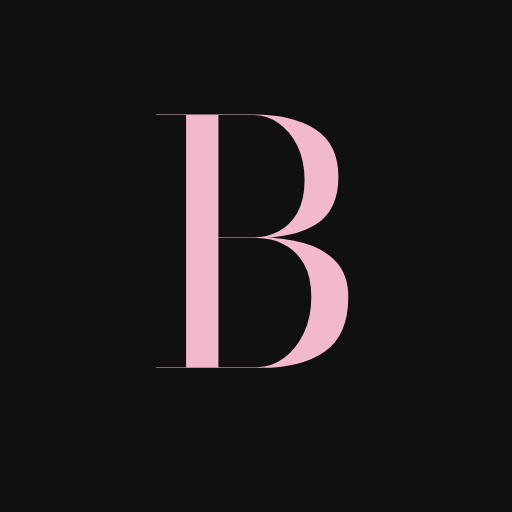
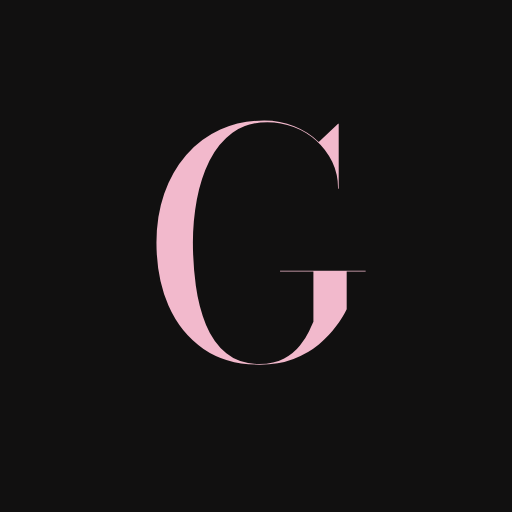
Rename the salon to Grin Lashes
Site, legal pages, emails, Stripe line item, manifest, social preview
image and icons (monogram B -> G).

Claude-Session: https://claude.ai/code/session_01NthKkiTawTwUMCYFEXdZph

Changed region(s): [[0.2812, 0.2188, 0.7188, 0.7188]]

diff --git a/public/index.html b/public/index.html
@@ -3,8 +3,8 @@
 <head>
 <meta charset="utf-8">
 <meta name="viewport" content="width=device-width, initial-scale=1">
-<title>Dovanų kuponai · Blakstės studija · Meistrė Viktorija</title>
-<meta name="description" content="Dovanų kuponai Blakstės studijai: blakstienų priauginimas ir laminavimas pas meistrę Viktoriją. Kuponas nuo 40 € su QR kodu, galioja 12 mėn.">
+<title>Dovanų kuponai · Grin Lashes · Meistrė Viktorija</title>
+<meta name="description" content="Dovanų kuponai Grin Lashes: blakstienų priauginimas ir laminavimas pas meistrę Viktoriją. Kuponas nuo 40 € su QR kodu, galioja 12 mėn.">
 <link rel="canonical" href="https://blakstes-kuponai.vercel.app/">
 <meta name="theme-color" content="#111010">
 <link rel="icon" href="/favicon.svg" type="image/svg+xml">
@@ -12,9 +12,9 @@
 <link rel="apple-touch-icon" href="/apple-touch-icon.png">
 <link rel="manifest" href="/site.webmanifest">
 <meta property="og:type" content="website">
-<meta property="og:site_name" content="Blakstės studija">
-<meta property="og:title" content="Dovanų kuponai · Blakstės studija">
-<meta property="og:description" content="Dovanų kuponai Blakstės studijai: blakstienų priauginimas ir laminavimas pas meistrę Viktoriją. Kuponas nuo 40 € su QR kodu, galioja 12 mėn.">
+<meta property="og:site_name" content="Grin Lashes">
+<meta property="og:title" content="Dovanų kuponai · Grin Lashes">
+<meta property="og:description" content="Dovanų kuponai Grin Lashes: blakstienų priauginimas ir laminavimas pas meistrę Viktoriją. Kuponas nuo 40 € su QR kodu, galioja 12 mėn.">
 <meta property="og:url" content="https://blakstes-kuponai.vercel.app/">
 <meta property="og:image" content="https://blakstes-kuponai.vercel.app/og.png">
 <meta property="og:image:width" content="1200">
@@ -22,7 +22,7 @@
 <meta property="og:locale" content="lt_LT">
 <meta property="og:locale:alternate" content="ru_RU">
 <meta name="twitter:card" content="summary_large_image">
-<script type="application/ld+json">{"@context": "https://schema.org", "@type": "BeautySalon", "name": "Blakstės studija", "url": "https://blakstes-kuponai.vercel.app/", "image": "https://blakstes-kuponai.vercel.app/og.png", "description": "Dovanų kuponai Blakstės studijai: blakstienų priauginimas ir laminavimas pas meistrę Viktoriją. Kuponas nuo 40 € su QR kodu, galioja 12 mėn.", "sameAs": ["https://www.instagram.com/grin_lashes/", "https://book.treatwell.lt/salonas/397163/meniu"], "priceRange": "10–55 €", "employee": {"@type": "Person", "name": "Viktorija", "jobTitle": "Blakstienų meistrė"}}</script>
+<script type="application/ld+json">{"@context": "https://schema.org", "@type": "BeautySalon", "name": "Grin Lashes", "url": "https://blakstes-kuponai.vercel.app/", "image": "https://blakstes-kuponai.vercel.app/og.png", "description": "Dovanų kuponai Grin Lashes: blakstienų priauginimas ir laminavimas pas meistrę Viktoriją. Kuponas nuo 40 € su QR kodu, galioja 12 mėn.", "sameAs": ["https://www.instagram.com/grin_lashes/", "https://book.treatwell.lt/salonas/397163/meniu"], "priceRange": "10–55 €", "employee": {"@type": "Person", "name": "Viktorija", "jobTitle": "Blakstienų meistrė"}}</script>
 <link rel="stylesheet" href="/fonts/fonts.css?v=1" media="print" onload="this.media='all'">
 <noscript><link rel="stylesheet" href="/fonts/fonts.css?v=1"></noscript>
 <style>
@@ -478,7 +478,7 @@ dialog::backdrop{background:rgba(10,9,9,.7);backdrop-filter:blur(4px)}
 <body>
 <header>
   <div class="wrap bar">
-    <a class="logo" href="#top" id="logoLink"><b id="brandName">Blakstės studija</b><small data-i18n="logoSub">MEISTRĖ VIKTORIJA</small></a>
+    <a class="logo" href="#top" id="logoLink"><b id="brandName">Grin Lashes</b><small data-i18n="logoSub">MEISTRĖ VIKTORIJA</small></a>
     <nav class="menu" id="shopNav">
       <a href="#choose" data-i18n="navPrices">Kainos</a>
       <a href="#check" data-i18n="navCheck">Likutis</a>
@@ -748,9 +748,9 @@ dialog::backdrop{background:rgba(10,9,9,.7);backdrop-filter:blur(4px)}
 <!-- Photos of work and client reviews. Photos go to public/works/ (JPG/WebP, about 1200 px). Empty lists hide the section.
      {"photos":[{"src":"/works/1.jpg","alt":"Klasikinis priauginimas"}],
       "reviews":[{"name":"Ieva","text":"…","stars":5,"source":"Treatwell"}]} -->
-<script id="works-data" type="application/json">{"photos":[{"src":"/works/1.jpg","alt":"Blakstienų darbas Nr. 1 – Blakstės studija"},{"src":"/works/2.jpg","alt":"Blakstienų darbas Nr. 2 – Blakstės studija"},{"src":"/works/3.jpg","alt":"Blakstienų darbas Nr. 3 – Blakstės studija"},{"src":"/works/4.jpg","alt":"Blakstienų darbas Nr. 4 – Blakstės studija"},{"src":"/works/5.jpg","alt":"Blakstienų darbas Nr. 5 – Blakstės studija"},{"src":"/works/6.jpg","alt":"Blakstienų darbas Nr. 6 – Blakstės studija"},{"src":"/works/7.jpg","alt":"Blakstienų darbas Nr. 7 – Blakstės studija"},{"src":"/works/8.jpg","alt":"Blakstienų darbas Nr. 8 – Blakstės studija"},{"src":"/works/9.jpg","alt":"Blakstienų darbas Nr. 9 – Blakstės studija"},{"src":"/works/10.jpg","alt":"Blakstienų darbas Nr. 10 – Blakstės studija"},{"src":"/works/11.jpg","alt":"Blakstienų darbas Nr. 11 – Blakstės studija"}],"reviews":[]}</script>
+<script id="works-data" type="application/json">{"photos":[{"src":"/works/1.jpg","alt":"Blakstienų darbas Nr. 1 – Grin Lashes"},{"src":"/works/2.jpg","alt":"Blakstienų darbas Nr. 2 – Grin Lashes"},{"src":"/works/3.jpg","alt":"Blakstienų darbas Nr. 3 – Grin Lashes"},{"src":"/works/4.jpg","alt":"Blakstienų darbas Nr. 4 – Grin Lashes"},{"src":"/works/5.jpg","alt":"Blakstienų darbas Nr. 5 – Grin Lashes"},{"src":"/works/6.jpg","alt":"Blakstienų darbas Nr. 6 – Grin Lashes"},{"src":"/works/7.jpg","alt":"Blakstienų darbas Nr. 7 – Grin Lashes"},{"src":"/works/8.jpg","alt":"Blakstienų darbas Nr. 8 – Grin Lashes"},{"src":"/works/9.jpg","alt":"Blakstienų darbas Nr. 9 – Grin Lashes"},{"src":"/works/10.jpg","alt":"Blakstienų darbas Nr. 10 – Grin Lashes"},{"src":"/works/11.jpg","alt":"Blakstienų darbas Nr. 11 – Grin Lashes"}],"reviews":[]}</script>
 <!-- Service list for the static preview. The server version reads data/menu.json via /api/menu. -->
-<script id="menu-data" type="application/json">{"salon": {"name": "Blakstės studija", "address": "", "bookingUrl": "https://book.treatwell.lt/salonas/397163/meniu"}, "categories": [{"name": "Blakstienų laminavimas", "services": [{"id": "s1", "name": "Blakstienų laminavimas su dažymu", "price": 30, "bookingUrl": "https://book.treatwell.lt/salonas/397163/meniu"}]}, {"name": "Nude / Classic", "services": [{"id": "s2", "name": "Korekcija (po 4 savaičių)", "price": 35, "bookingUrl": "https://book.treatwell.lt/salonas/397163/meniu"}, {"id": "s3", "name": "Pilnas priauginimas", "price": 40, "bookingUrl": "https://book.treatwell.lt/salonas/397163/meniu"}, {"id": "s4", "name": "Korekcija po kito meistro", "price": 38, "bookingUrl": "https://book.treatwell.lt/salonas/397163/meniu"}, {"id": "s5", "name": "Priauginimas + nuėmimas", "price": 45, "bookingUrl": "https://book.treatwell.lt/salonas/397163/meniu"}]}, {"name": "Wet Lashes", "services": [{"id": "s6", "name": "Korekcija", "price": 40, "bookingUrl": "https://book.treatwell.lt/salonas/397163/meniu"}, {"id": "s7", "name": "Pilnas priauginimas", "price": 45, "bookingUrl": "https://book.treatwell.lt/salonas/397163/meniu"}]}, {"name": "M / L linkis", "services": [{"id": "s8", "name": "Pilnas priauginimas", "price": 45, "bookingUrl": "https://book.treatwell.lt/salonas/397163/meniu"}, {"id": "s9", "name": "Korekcija", "price": 40, "bookingUrl": "https://book.treatwell.lt/salonas/397163/meniu"}]}, {"name": "Wispy / Kim K / Anime", "services": [{"id": "s10", "name": "Pilnas priauginimas", "price": 55, "bookingUrl": "https://book.treatwell.lt/salonas/397163/meniu"}, {"id": "s11", "name": "Korekcija", "price": 45, "bookingUrl": "https://book.treatwell.lt/salonas/397163/meniu"}]}, {"name": "Express priauginimas", "services": [{"id": "s12", "name": "Priauginimas", "price": 35, "bookingUrl": "https://book.treatwell.lt/salonas/397163/meniu"}]}, {"name": "Speedy Lashes", "services": [{"id": "s13", "name": "Pilnas priauginimas", "price": 45, "bookingUrl": "https://book.treatwell.lt/salonas/397163/meniu"}, {"id": "s14", "name": "Korekcija", "price": 40, "bookingUrl": "https://book.treatwell.lt/salonas/397163/meniu"}], "description": "Priauginimas paruoštais kuokšteliais"}, {"name": "Blakstienų nuėmimas", "services": [{"id": "s15", "name": "Nuėmimas", "price": 10, "bookingUrl": "https://book.treatwell.lt/salonas/397163/meniu"}, {"id": "s16", "name": "Nuėmimas po kito meistro", "price": 15, "bookingUrl": "https://book.treatwell.lt/salonas/397163/meniu"}]}]}</script>
+<script id="menu-data" type="application/json">{"salon": {"name": "Grin Lashes", "address": "", "bookingUrl": "https://book.treatwell.lt/salonas/397163/meniu"}, "categories": [{"name": "Blakstienų laminavimas", "services": [{"id": "s1", "name": "Blakstienų laminavimas su dažymu", "price": 30, "bookingUrl": "https://book.treatwell.lt/salonas/397163/meniu"}]}, {"name": "Nude / Classic", "services": [{"id": "s2", "name": "Korekcija (po 4 savaičių)", "price": 35, "bookingUrl": "https://book.treatwell.lt/salonas/397163/meniu"}, {"id": "s3", "name": "Pilnas priauginimas", "price": 40, "bookingUrl": "https://book.treatwell.lt/salonas/397163/meniu"}, {"id": "s4", "name": "Korekcija po kito meistro", "price": 38, "bookingUrl": "https://book.treatwell.lt/salonas/397163/meniu"}, {"id": "s5", "name": "Priauginimas + nuėmimas", "price": 45, "bookingUrl": "https://book.treatwell.lt/salonas/397163/meniu"}]}, {"name": "Wet Lashes", "services": [{"id": "s6", "name": "Korekcija", "price": 40, "bookingUrl": "https://book.treatwell.lt/salonas/397163/meniu"}, {"id": "s7", "name": "Pilnas priauginimas", "price": 45, "bookingUrl": "https://book.treatwell.lt/salonas/397163/meniu"}]}, {"name": "M / L linkis", "services": [{"id": "s8", "name": "Pilnas priauginimas", "price": 45, "bookingUrl": "https://book.treatwell.lt/salonas/397163/meniu"}, {"id": "s9", "name": "Korekcija", "price": 40, "bookingUrl": "https://book.treatwell.lt/salonas/397163/meniu"}]}, {"name": "Wispy / Kim K / Anime", "services": [{"id": "s10", "name": "Pilnas priauginimas", "price": 55, "bookingUrl": "https://book.treatwell.lt/salonas/397163/meniu"}, {"id": "s11", "name": "Korekcija", "price": 45, "bookingUrl": "https://book.treatwell.lt/salonas/397163/meniu"}]}, {"name": "Express priauginimas", "services": [{"id": "s12", "name": "Priauginimas", "price": 35, "bookingUrl": "https://book.treatwell.lt/salonas/397163/meniu"}]}, {"name": "Speedy Lashes", "services": [{"id": "s13", "name": "Pilnas priauginimas", "price": 45, "bookingUrl": "https://book.treatwell.lt/salonas/397163/meniu"}, {"id": "s14", "name": "Korekcija", "price": 40, "bookingUrl": "https://book.treatwell.lt/salonas/397163/meniu"}], "description": "Priauginimas paruoštais kuokšteliais"}, {"name": "Blakstienų nuėmimas", "services": [{"id": "s15", "name": "Nuėmimas", "price": 10, "bookingUrl": "https://book.treatwell.lt/salonas/397163/meniu"}, {"id": "s16", "name": "Nuėmimas po kito meistro", "price": 15, "bookingUrl": "https://book.treatwell.lt/salonas/397163/meniu"}]}]}</script>
 
 <!-- Live database (Supabase). The key below is the public "publishable" key; all rules live in the database functions. -->
 <script id="supa-config" type="application/json">{"url":"https://hermojruniqfvxksunrj.supabase.co","key":"sb_publishable_dUxM0CR3woUXiq0or0yGZQ_tel1mICB"}</script>
@@ -1168,7 +1168,7 @@ function qrSvg(text){
 }
 function cardHTML(o){
   const who = [o.to ? t('forWhom') + ': ' + esc(o.to) : '', esc(o.from || '')].filter(Boolean).join(' · ');
-  return `<div class="v-top"><div class="v-logo">${esc(state.menu.salon?.name || 'Blakstės studija')}<small>${t('logoSub')}</small></div></div>
+  return `<div class="v-top"><div class="v-logo">${esc(state.menu.salon?.name || 'Grin Lashes')}<small>${t('logoSub')}</small></div></div>
     <div class="v-mid"><div class="v-title">${esc(o.title)}</div><div class="v-amount">${money(o.amount)}</div></div>
     <div class="v-bot"><div style="min-width:0"><div class="v-msg">${o.message ? '“' + esc(o.message) + '”' : ''}</div>${who ? `<div class="v-who">${who}</div>` : ''}</div>
     <div class="v-qr">${o.code ? `<div class="qr">${qrSvg(o.qr || qrPayload(o.code))}</div>` : '<div class="qr ph"></div>'}<div class="v-code">${esc(o.code || 'GIFT-XXXX-XXXX')}</div></div></div>`;
@@ -1192,7 +1192,7 @@ function renderPreview(){
 }
 function renderStatic(){
   $('#heroCard').innerHTML = cardHTML({ title: t('voucher'), amount: 50, message: t('heroMsg'), code:'GIFT-DEMO-2026', qr:'GIFT-DEMO-2026' });
-  const m = state.menu, name = m.salon?.name || 'Blakstės studija';
+  const m = state.menu, name = m.salon?.name || 'Grin Lashes';
   $('#brandName').textContent = name;
   $('#footBrand').textContent = name;
   $('#footSalon').textContent = m.salon?.address || '';
@@ -1269,7 +1269,7 @@ async function voucherBlob(v){
   x.strokeStyle = D[2]; x.globalAlpha = .25; x.lineWidth = 2; x.beginPath(); x.roundRect(36, 36, W - 72, H - 72, 10); x.stroke(); x.globalAlpha = 1;
   const sp = px => { if ('letterSpacing' in x) x.letterSpacing = px; };
   x.fillStyle = D[2]; x.textBaseline = 'alphabetic';
-  sp('8px'); x.font = '400 44px "Bodoni Moda", Georgia, serif'; x.fillText(String(state.menu.salon?.name || 'Blakstės studija').toUpperCase(), 90, 140);
+  sp('8px'); x.font = '400 44px "Bodoni Moda", Georgia, serif'; x.fillText(String(state.menu.salon?.name || 'Grin Lashes').toUpperCase(), 90, 140);
   sp('7px'); x.font = '400 20px "Space Mono", monospace'; x.globalAlpha = .7; x.fillText(t('logoSub').toUpperCase(), 90, 178); x.globalAlpha = 1;
   sp('0px'); x.textAlign = 'right'; x.fillStyle = D[3]; x.font = '400 190px Anton, Impact, sans-serif'; x.fillText(money(v.amount), W - 90, 500);
   x.textAlign = 'left'; x.fillStyle = D[2]; x.font = 'italic 400 70px "Bodoni Moda", Georgia, serif';

diff --git a/public/taisykles.html b/public/taisykles.html
@@ -3,8 +3,8 @@
 <head>
 <meta charset="utf-8">
 <meta name="viewport" content="width=device-width, initial-scale=1">
-<title>Pirkimo taisyklės · Blakstės studija</title>
-<meta name="description" content="Blakstės studijos dovanų kuponų pirkimo, naudojimo ir grąžinimo taisyklės.">
+<title>Pirkimo taisyklės · Grin Lashes</title>
+<meta name="description" content="Grin Lashes dovanų kuponų pirkimo, naudojimo ir grąžinimo taisyklės.">
 <meta name="robots" content="index,follow">
 <link rel="canonical" href="https://blakstes-kuponai.vercel.app/taisykles.html">
 <meta name="theme-color" content="#111010">
@@ -33,7 +33,7 @@ footer a{color:var(--greige);margin:0 8px}
 </style>
 </head>
 <body>
-<header><div class="w"><a class="brand" href="/">Blakstės studija</a><a class="back" href="/">← Į svetainę</a></div></header>
+<header><div class="w"><a class="brand" href="/">Grin Lashes</a><a class="back" href="/">← Į svetainę</a></div></header>
 <main>
 <h1>Dovanų kuponų pirkimo taisyklės</h1>
 <p class="upd">Galioja nuo 2026-11-12</p>
@@ -47,11 +47,11 @@ footer a{color:var(--greige);margin:0 8px}
   <p>El. paštas: <span class="ph">[EL. PAŠTAS]</span> · Tel. <span class="ph">[TELEFONAS]</span></p>
 </div>
 
-<p>Paslaugas pagal kuponus teikia Blakstės studija, meistrė Viktorija. Šios taisyklės taikomos visiems Svetainėje pirktiems kuponams. Pateikdami užsakymą patvirtinate, kad susipažinote su taisyklėmis ir su jomis sutinkate.</p>
+<p>Paslaugas pagal kuponus teikia Grin Lashes, meistrė Viktorija. Šios taisyklės taikomos visiems Svetainėje pirktiems kuponams. Pateikdami užsakymą patvirtinate, kad susipažinote su taisyklėmis ir su jomis sutinkate.</p>
 
 <h2>2. Dovanų kuponas</h2>
 <ol>
-  <li>Kuponas – tai elektroninis dokumentas su unikaliu kodu ir QR kodu, kuriuo galima atsiskaityti už Blakstės studijos paslaugas.</li>
+  <li>Kuponas – tai elektroninis dokumentas su unikaliu kodu ir QR kodu, kuriuo galima atsiskaityti už Grin Lashes paslaugas.</li>
   <li>Svetainėje galima įsigyti nuo 40 € iki 1000 € vertės kuponą.</li>
   <li>Kuponas galioja 12 mėnesių nuo įsigijimo dienos. Galiojimo pabaigos data nurodyta kupone ir matoma Svetainės skiltyje „Likutis“. Galiojimas nepratęsiamas.</li>
   <li>Kuponą galima naudoti dalimis: nepanaudotas likutis lieka kupone iki galiojimo pabaigos.</li>

diff --git a/public/privatumas.html b/public/privatumas.html
@@ -3,8 +3,8 @@
 <head>
 <meta charset="utf-8">
 <meta name="viewport" content="width=device-width, initial-scale=1">
-<title>Privatumo politika · Blakstės studija</title>
-<meta name="description" content="Kaip Blakstės studija tvarko dovanų kuponų pirkėjų ir gavėjų asmens duomenis.">
+<title>Privatumo politika · Grin Lashes</title>
+<meta name="description" content="Kaip Grin Lashes tvarko dovanų kuponų pirkėjų ir gavėjų asmens duomenis.">
 <meta name="robots" content="index,follow">
 <link rel="canonical" href="https://blakstes-kuponai.vercel.app/privatumas.html">
 <meta name="theme-color" content="#111010">
@@ -33,7 +33,7 @@ footer a{color:var(--greige);margin:0 8px}
 </style>
 </head>
 <body>
-<header><div class="w"><a class="brand" href="/">Blakstės studija</a><a class="back" href="/">← Į svetainę</a></div></header>
+<header><div class="w"><a class="brand" href="/">Grin Lashes</a><a class="back" href="/">← Į svetainę</a></div></header>
 <main>
 <h1>Privatumo politika</h1>
 <p class="upd">Galioja nuo 2026-11-12</p>
@@ -61,7 +61,7 @@ footer a{color:var(--greige);margin:0 8px}
 <p>Kupono ir užsakymo duomenis saugome kupono galiojimo laikotarpį ir 1 metus po jo pabaigos (galimoms pretenzijoms). Apskaitos dokumentus saugome tiek, kiek reikalauja Lietuvos teisės aktai (iki 10 metų).</p>
 
 <h2>4. Kas gauna duomenis</h2>
-<p>Duomenis tvarko tik Blakstės studija ir šie paslaugų teikėjai (duomenų tvarkytojai) pagal sutartis:</p>
+<p>Duomenis tvarko tik Grin Lashes ir šie paslaugų teikėjai (duomenų tvarkytojai) pagal sutartis:</p>
 <ul>
   <li>Supabase – duomenų bazė (serveriai ES, Frankfurte);</li>
   <li>Vercel – svetainės talpinimas;</li>

diff --git a/supabase/functions/mailer/index.ts b/supabase/functions/mailer/index.ts
@@ -8,7 +8,7 @@
 //     Gmail / any SMTP:  SMTP_USER, SMTP_PASS (Google app password), optional SMTP_HOST (smtp.gmail.com), SMTP_PORT (465)
 //     Brevo:             BREVO_API_KEY
 //     Resend:            RESEND_API_KEY
-//   MAIL_FROM       sender address (default SMTP_USER); shown as "Blakstės studija <MAIL_FROM>"
+//   MAIL_FROM       sender address (default SMTP_USER); shown as "Grin Lashes <MAIL_FROM>"
 //   optional: BACKUP_EMAIL (weekly backup, default NOTIFY_EMAIL), SITE_URL, SALON_CONTACT (phone/address line for the email footer), MAIL_PROVIDER (smtp|brevo|resend)
 import nodemailer from 'nodemailer';
 import { backupCsv, buildBackupMail, buildMail, voucherPdf, type Ctx, type Fonts, type Voucher } from './render.ts';
@@ -16,7 +16,7 @@ import { backupCsv, buildBackupMail, buildMail, voucherPdf, type Ctx, type Fonts
 const env = (k: string, d = '') => Deno.env.get(k) || d;
 const ctx: Ctx = {
   site: env('SITE_URL', 'https://blakstes-kuponai.vercel.app').replace(/\/$/, ''),
-  salon: 'Blakstės studija', master: 'Meistrė Viktorija',
+  salon: 'Grin Lashes', master: 'Meistrė Viktorija',
   booking: 'https://book.treatwell.lt/salonas/397163/meniu', instagram: 'https://www.instagram.com/grin_lashes/',
   contact: env('SALON_CONTACT'),
 };

diff --git a/supabase/functions/checkout/index.ts b/supabase/functions/checkout/index.ts
@@ -30,7 +30,7 @@ Deno.serve(async (req) => {
       'line_items[0][quantity]': '1',
       'line_items[0][price_data][currency]': 'eur',
       'line_items[0][price_data][unit_amount]': String(Math.round(v.amount * 100)),
-      'line_items[0][price_data][product_data][name]': `Dovanų kuponas ${v.amount} € — Blakstės studija`,
+      'line_items[0][price_data][product_data][name]': `Dovanų kuponas ${v.amount} € — Grin Lashes`,
       client_reference_id: v.code,
       'metadata[code]': v.code,
       'payment_intent_data[metadata][code]': v.code,

diff --git a/README.md b/README.md
@@ -1,4 +1,4 @@
-# Blakstės studija — dovanų kuponai
+# Grin Lashes — dovanų kuponai
 
 Сайт подарочных сертификатов: продажа онлайн, QR на каждом купоне, админка мастера со сканером и списаниями.
 
